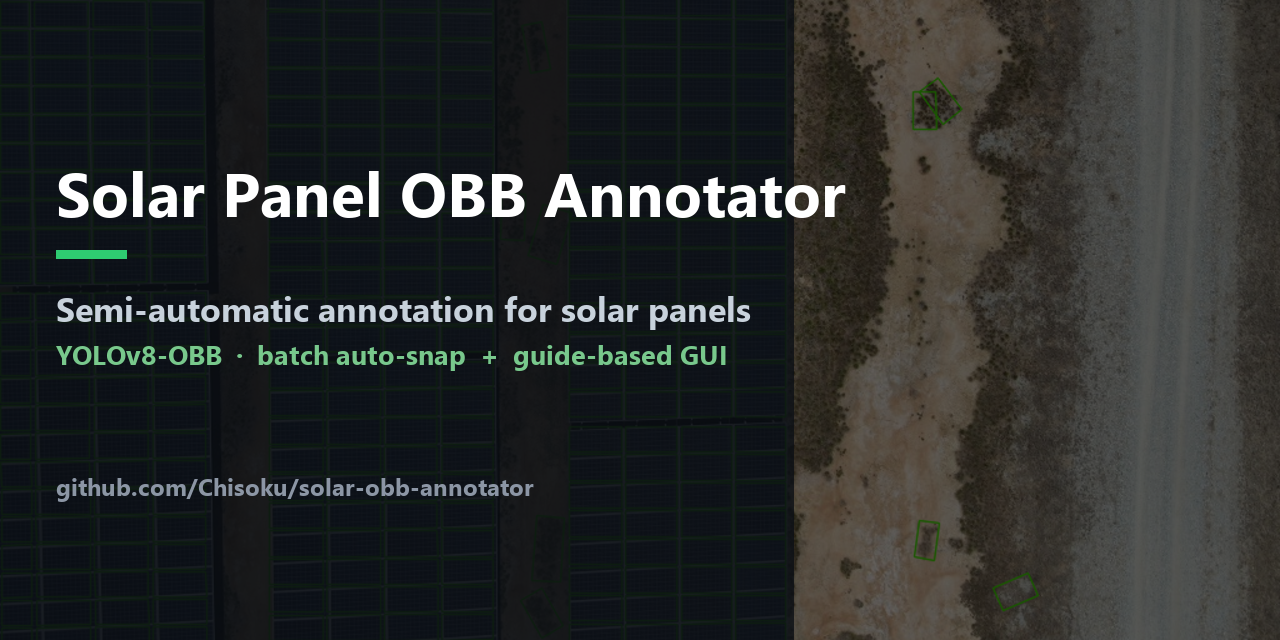
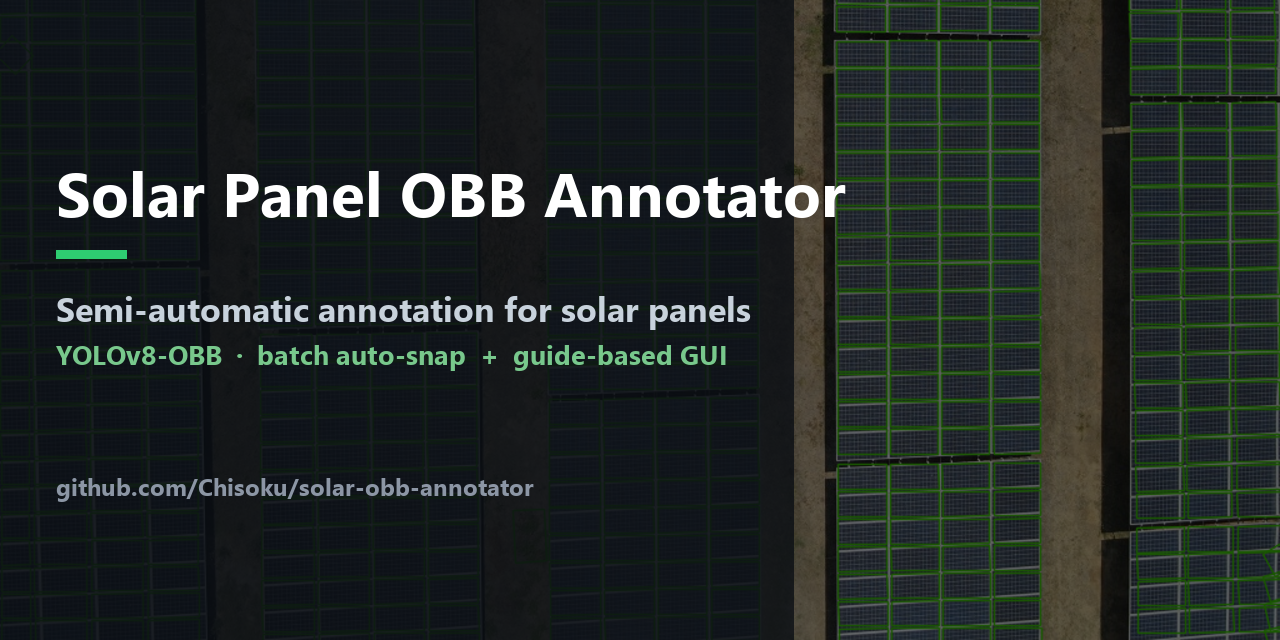
docs: drop demo GIF, use static GUI screenshot as hero

Changed region(s): [[0.625, 0.0, 1.0, 1.0]]

diff --git a/README.md b/README.md
@@ -12,9 +12,7 @@ Label solar farms in the **YOLOv8-OBB** format, then auto-straighten every panel
 [![PRs welcome](https://img.shields.io/badge/PRs-welcome-brightgreen.svg)](#)
 [![Stars](https://img.shields.io/github/stars/Chisoku/solar-obb-annotator?style=social)](https://github.com/Chisoku/solar-obb-annotator/stargazers)
 
-![guide-snap demo](assets/demo.gif)
-
-*Put guides on the panel edges → the corners snap onto the white borders.*
+![Solar OBB Annotator GUI](assets/gui.png)
 
 </div>
 
@@ -44,8 +42,6 @@ Hand/auto labels of solar panels are usually off by a few pixels at the corners,
 - ✋ Drag corners, ➕ add boxes, 🗑 delete boxes / individual guides.
 - **Undo / Redo** (`Ctrl+Z` / `Ctrl+Y`), spotlight hover, mark-as-done per image, delete image to trash.
 - Never overwrites your original labels — writes to a separate `labels_fixed/` folder.
-
-![GUI](assets/gui.png)
 
 ---
 
